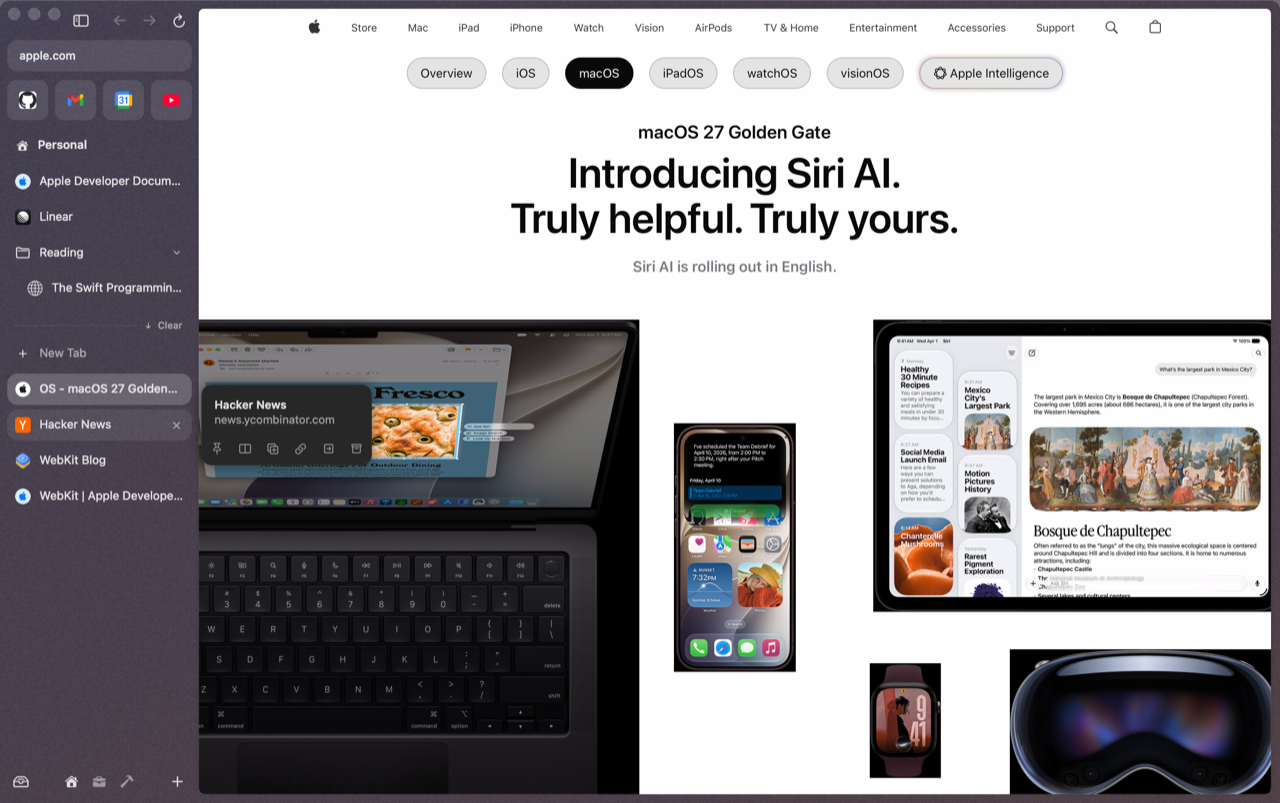
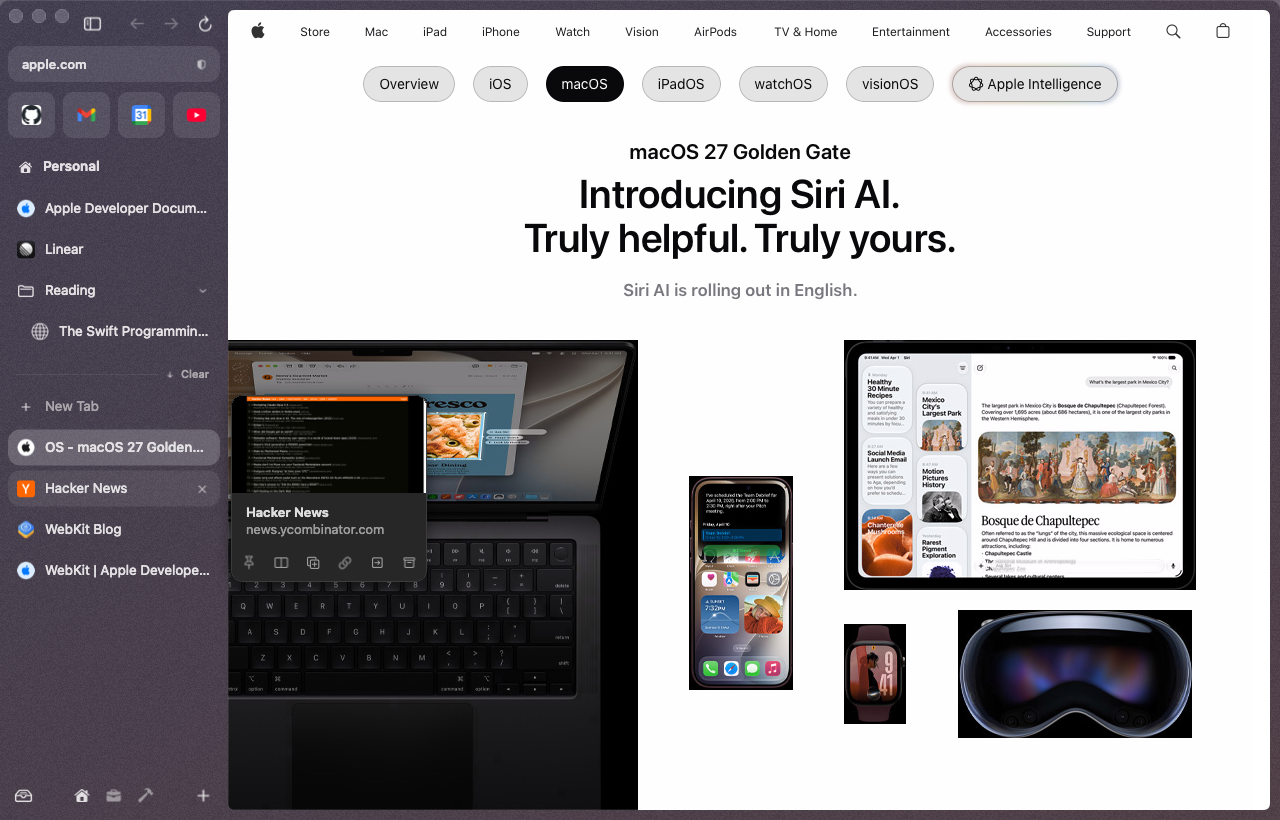
TabIconTests: read tab menus from tabs.menu (built on right-click now); fixed split card and link pill screenshots
card-split-dark.png showed the raw 'sf:rectangle.split.3…' text; re-rendered by
CI run 36398717259 with the valid symbol. link-status-dark.png re-rendered after
the pill fixes.

diff --git a/Tests/PluginTests/TabIconTests.swift b/Tests/PluginTests/TabIconTests.swift
@@ -24,7 +24,7 @@ struct TabIconTests {
     h.startTabs()
     let t = h.ids("today")[0]
     let favicon = todayRow(h, t)["icon"]
-    let menu = todayRow(h, t)["menu"].array ?? []
+    let menu = h.tabs("menu", ["id": .string(t)]).array ?? []
     #expect(menu.contains { $0["id"] == "changeIcon" && $0["title"] == "Change Icon…" })
     #expect(!menu.contains { $0["id"] == "removeIcon" })
 
@@ -38,7 +38,7 @@ struct TabIconTests {
     #expect(!h.rt.ui.popoverOpen)
     #expect(todayRow(h, t)["icon"] == "🚀")
     #expect(h.tabs("list")["today"][0]["icon"] == "🚀")
-    #expect((todayRow(h, t)["menu"].array ?? []).contains { $0["id"] == "removeIcon" })
+    #expect((h.tabs("menu", ["id": .string(t)]).array ?? []).contains { $0["id"] == "removeIcon" })
 
     // ⌃Z brings the favicon back; Remove Icon does too.
     h.key("ctrl+z")
@@ -60,7 +60,7 @@ struct TabIconTests {
     h.startTabs()
     let f = h.ids("favorites")[0]
     let tile = { h.tree("sidebar.favorites", 0)["children"].array?.first { $0["id"].string == f } ?? .null }
-    #expect((tile()["menu"].array ?? []).contains { $0["id"] == "changeIcon" })
+    #expect((h.tabs("menu", ["id": .string(f)]).array ?? []).contains { $0["id"] == "changeIcon" })
     h.tabs("setIcon", ["id": .string(f), "icon": "🎵"])
     #expect(tile()["icon"] == "🎵")
     // The hover card gets the same icon.
